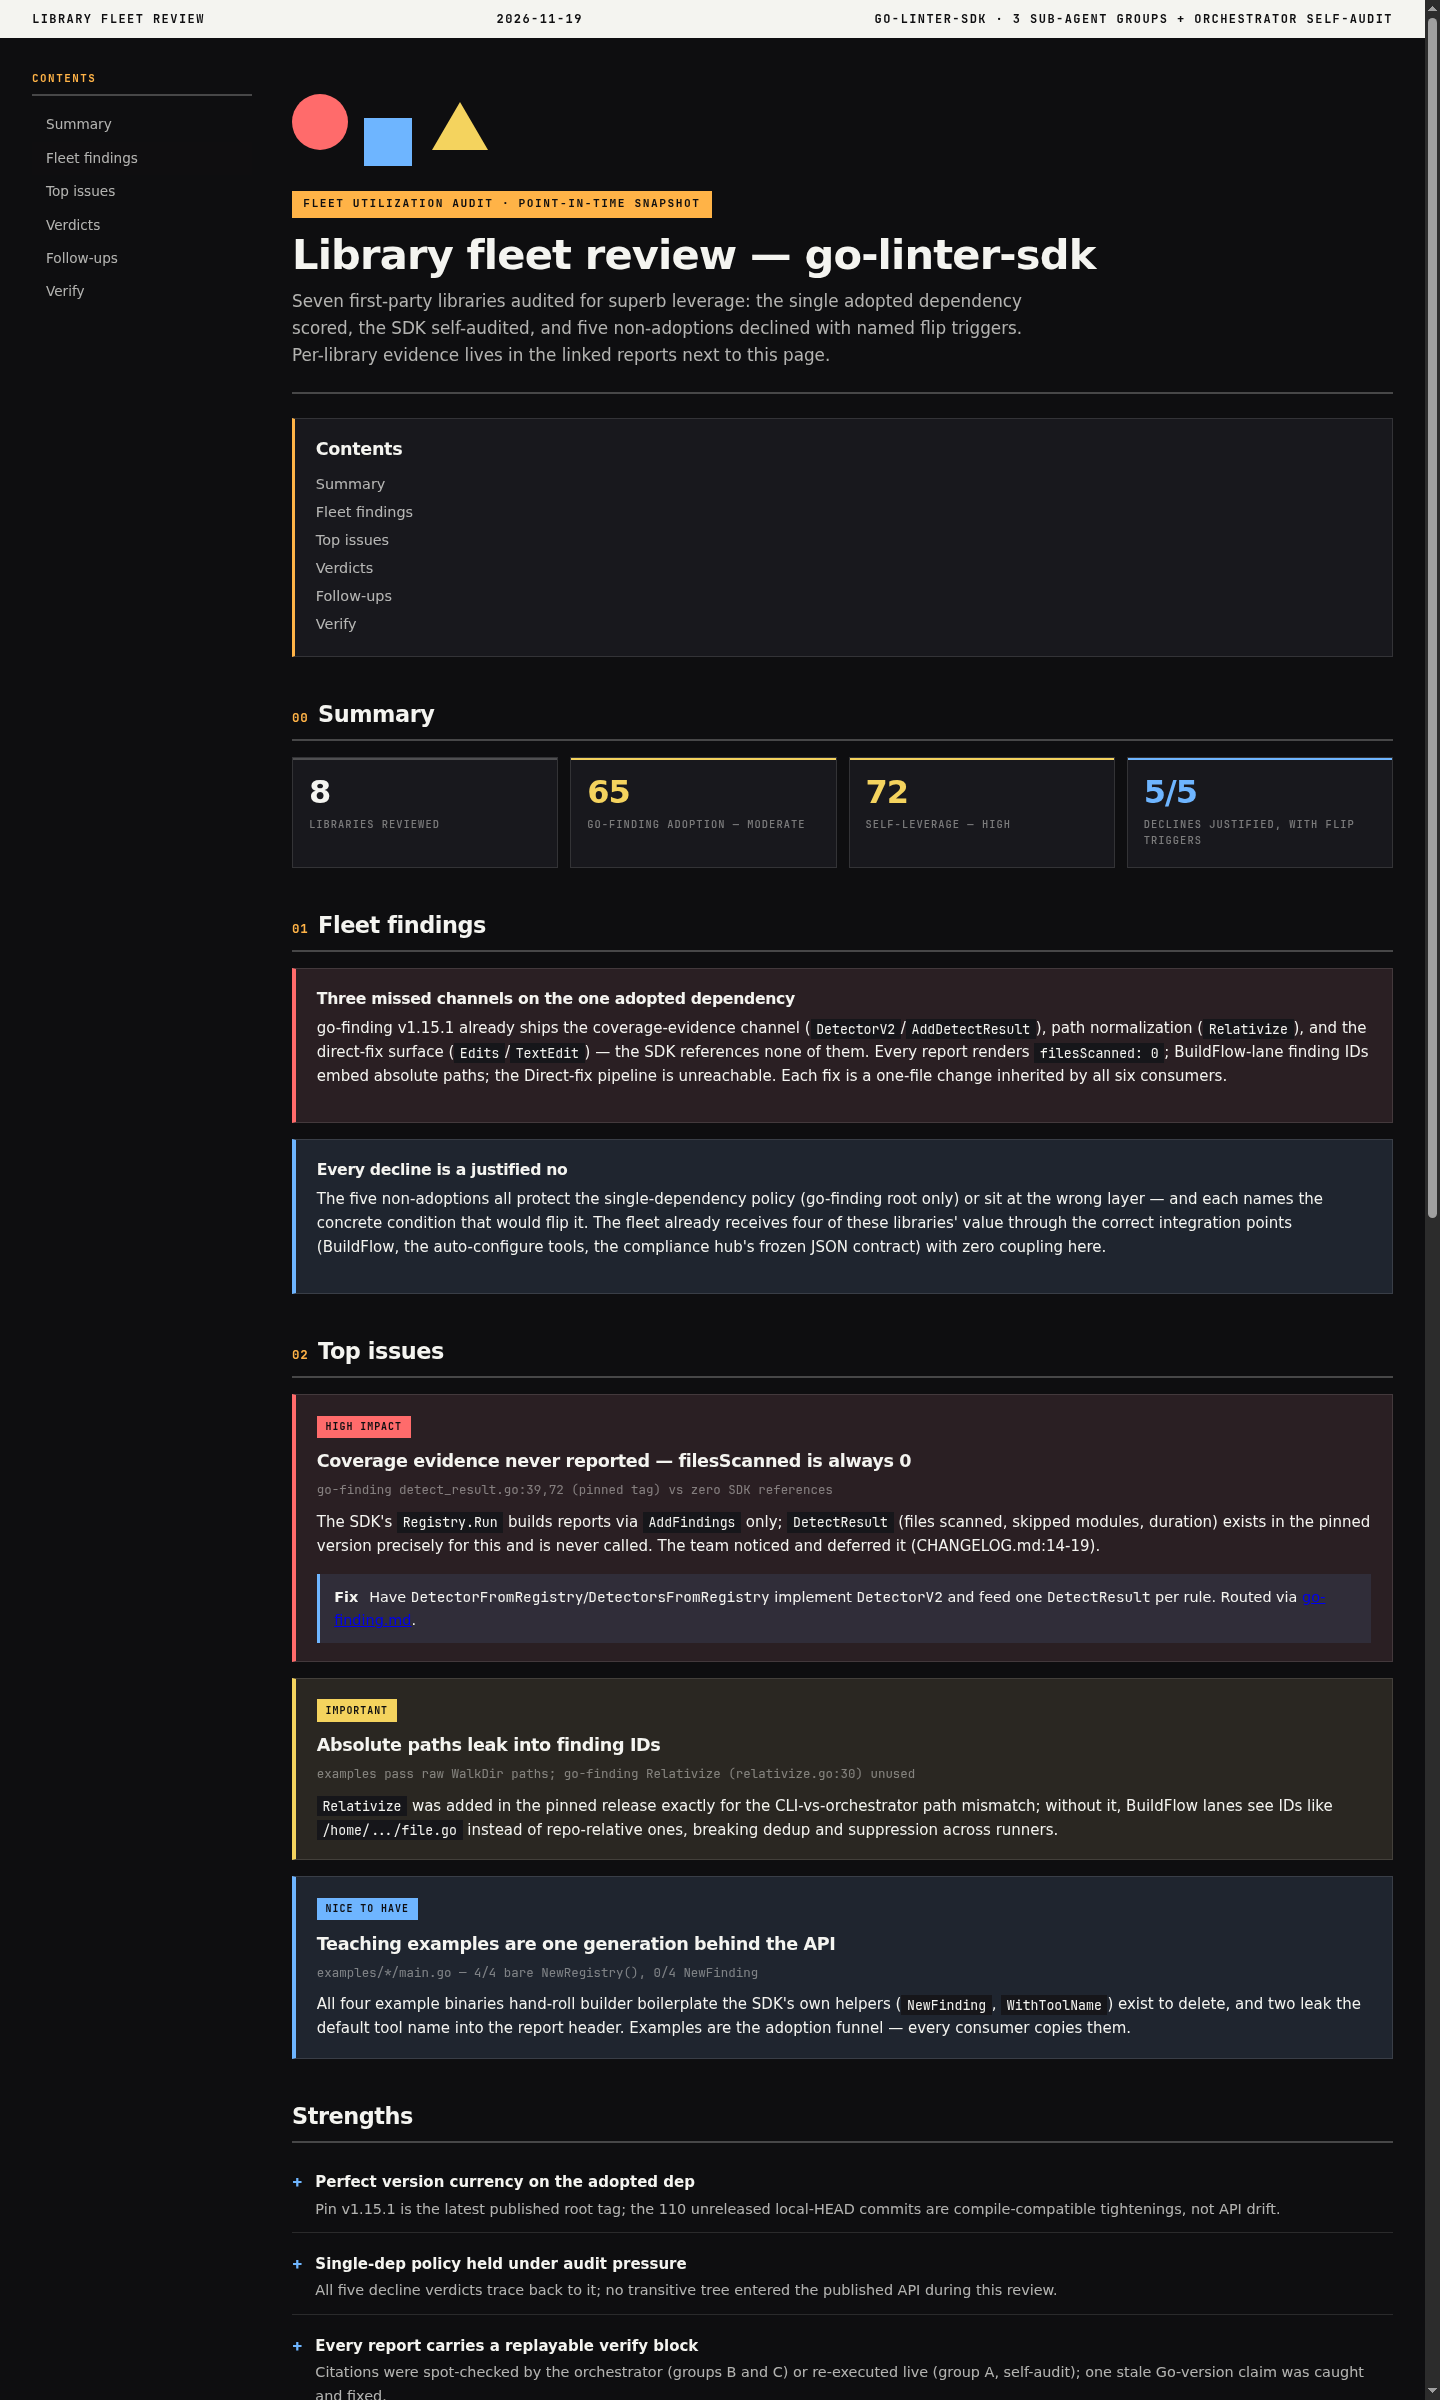
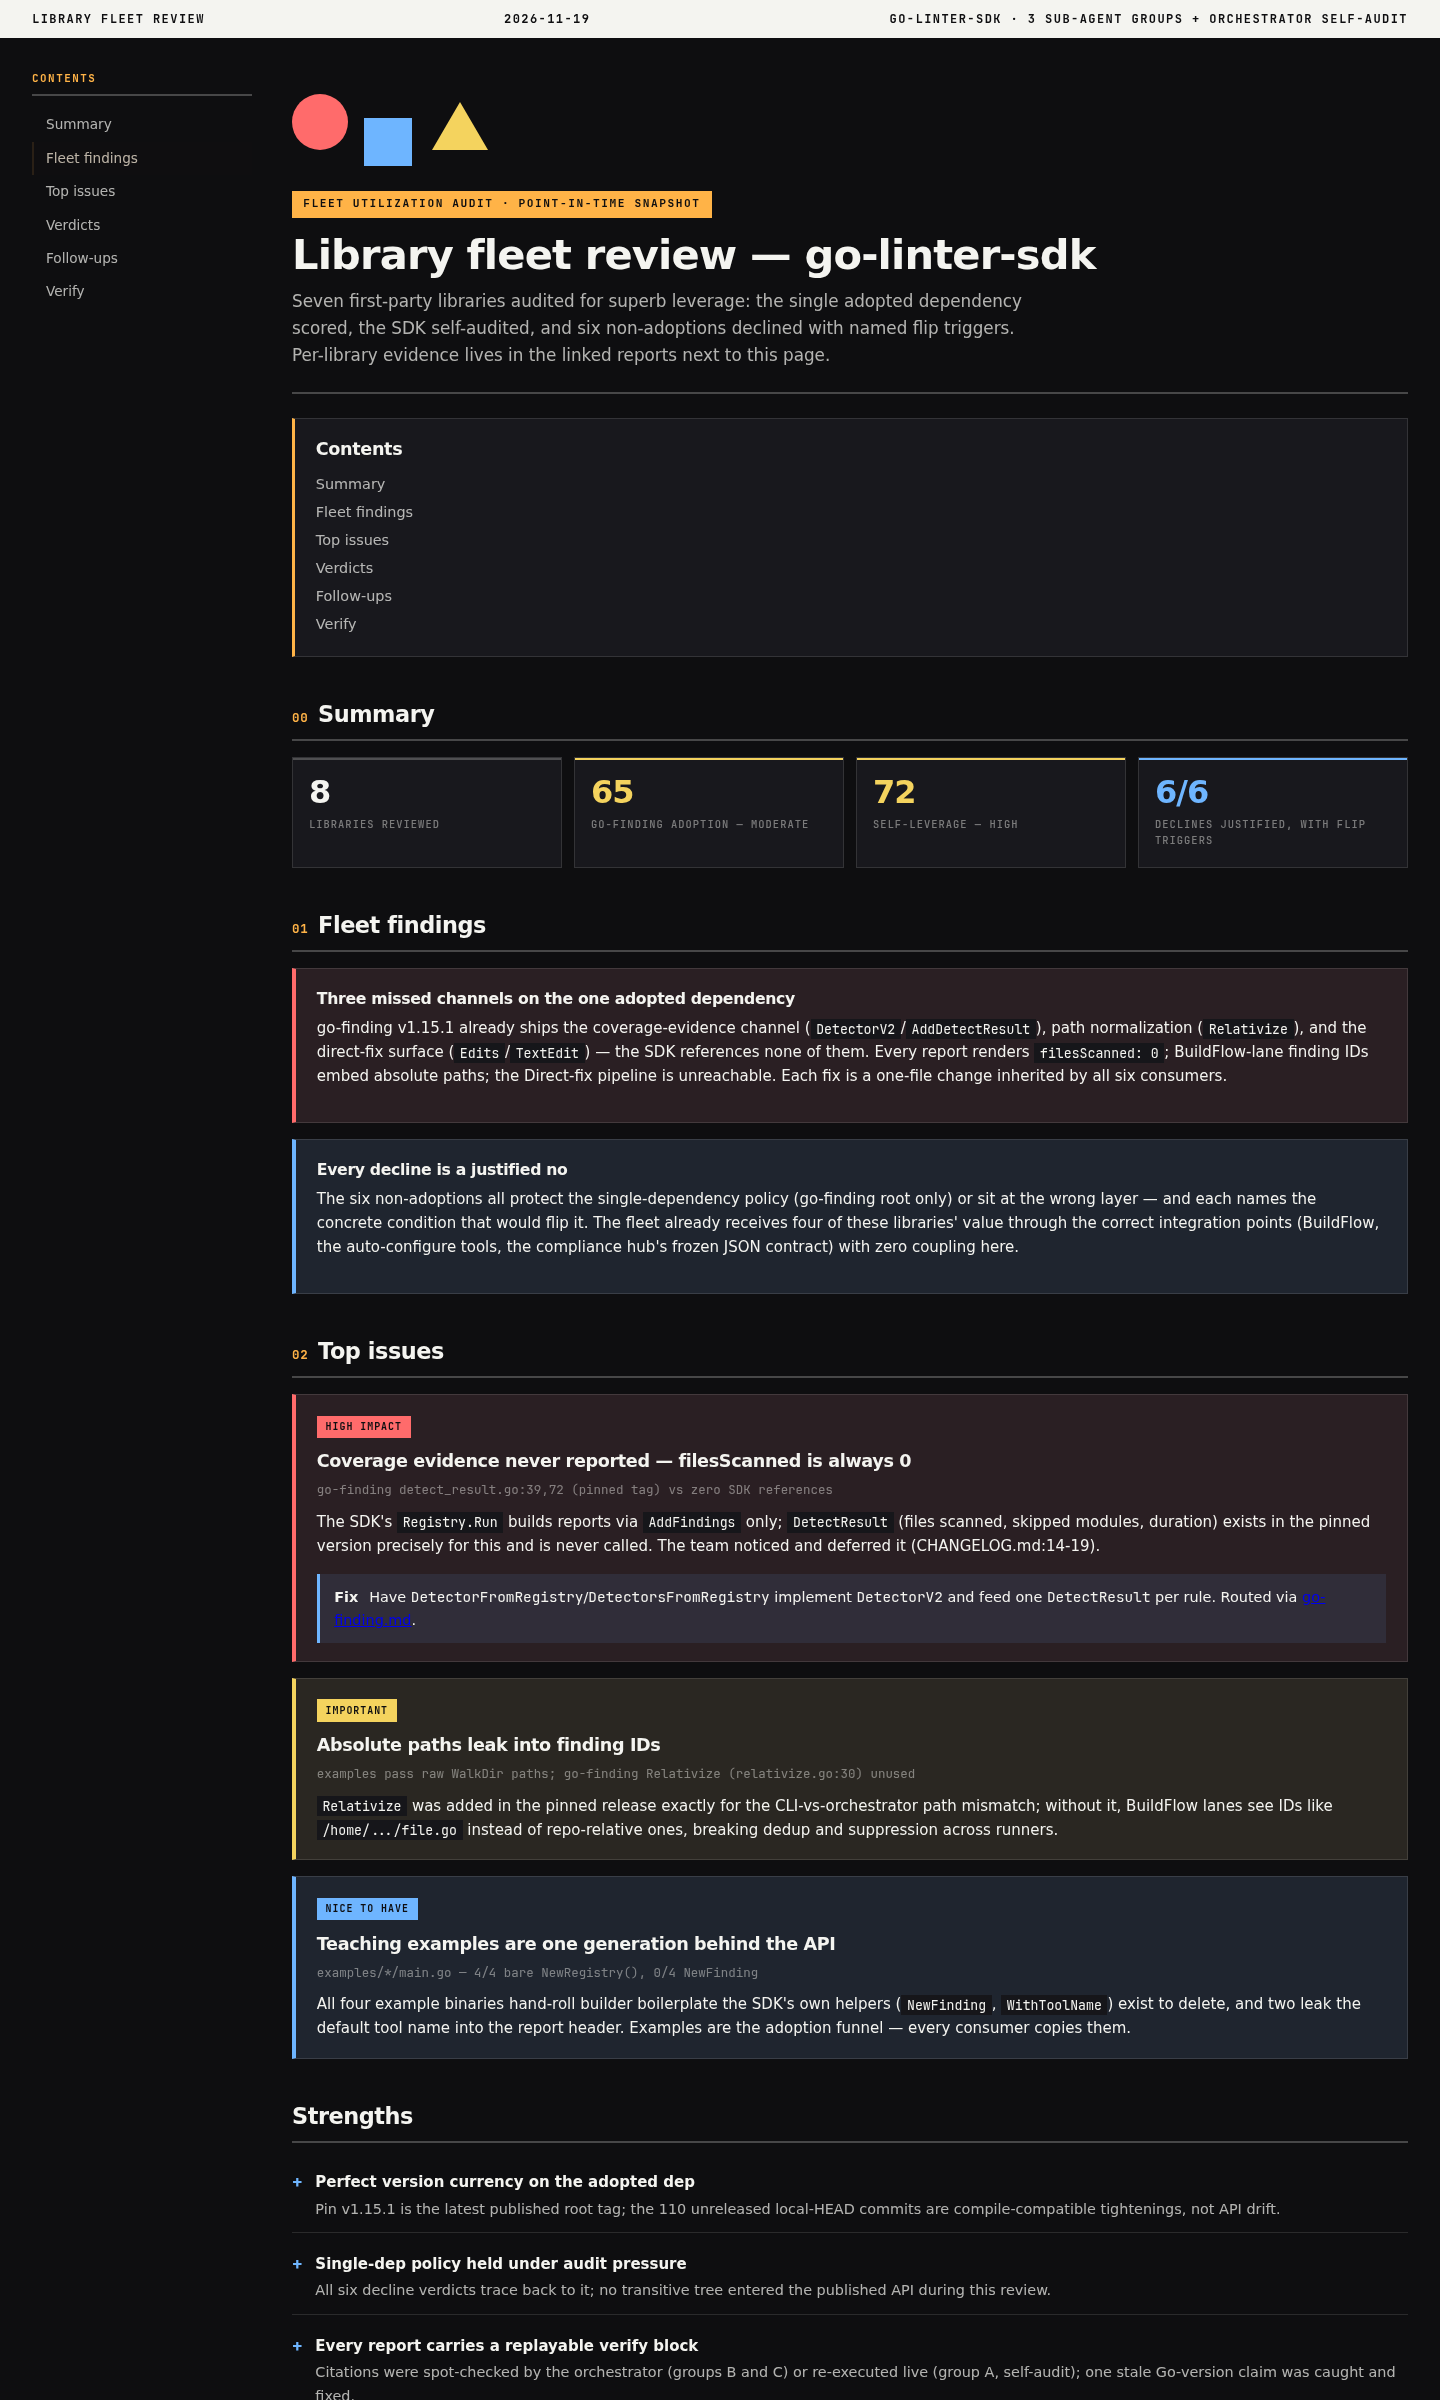
chore: auto-commit 6 changed file(s) (heuristic)
CHANGELOG.md
coverage_test.go
docs/review/libs/assets/index-render-full.png
docs/review/libs/assets/index-render-top.png
docs/review/libs/index.html
registry.go

Daemon: true

diff --git a/docs/review/libs/index.html b/docs/review/libs/index.html
@@ -859,7 +859,7 @@
           <h1>Library fleet review — go-linter-sdk</h1>
           <p class="hero-subtitle">
             Seven first-party libraries audited for superb leverage: the single
-            adopted dependency scored, the SDK self-audited, and five non-adoptions
+            adopted dependency scored, the SDK self-audited, and six non-adoptions
             declined with named flip triggers. Per-library evidence lives in the
             linked reports next to this page.
           </p>
@@ -894,7 +894,7 @@
             <div class="stat-label">Self-leverage — high</div>
           </div>
           <div class="stat-card stat-good">
-            <div class="stat-value">5/5</div>
+            <div class="stat-value">6/6</div>
             <div class="stat-label">Declines justified, with flip triggers</div>
           </div>
         </div>
@@ -919,7 +919,7 @@
         <div class="card card-solution">
           <h4>Every decline is a justified no</h4>
           <p>
-            The five non-adoptions all protect the single-dependency policy
+            The six non-adoptions all protect the single-dependency policy
             (go-finding root only) or sit at the wrong layer — and each names
             the concrete condition that would flip it. The fleet already
             receives four of these libraries' value through the correct
@@ -989,7 +989,7 @@
             <div class="check">+</div>
             <div class="text">
               <strong>Single-dep policy held under audit pressure</strong>
-              <span>All five decline verdicts trace back to it; no transitive tree entered the published API during this review.</span>
+              <span>All six decline verdicts trace back to it; no transitive tree entered the published API during this review.</span>
             </div>
           </div>
           <div class="strength">
@@ -1146,6 +1146,15 @@ for r in go-finding linter-autoconfigure-sdk go-policy-dsl go-dag-app go-complia
 grep -n '#2[0-7]' TODO_LIST.md                  # 8 routed rows (one BLOCKED)
 bash scripts/check-doc-versions.sh             # doc versions OK
 go test ./...                                  # suite green at review HEAD</code></pre>
+        <p>
+          Render re-verified 2026-11-19 (post 6/6 stat fix): headless chromium
+          152 screenshots at 1440&times;2400 and 1440&times;900
+          (<a href="assets/index-render-full.png">full</a>,
+          <a href="assets/index-render-top.png">top</a>), vision-checked on
+          those exact bytes with zai/glm-4.5v (reasoning off) &mdash; PASS, all
+          four stat cards read correctly (8 scored, 72 self-leverage, 6/6
+          declines justified, 85 avg adopted score).
+        </p>
 
         <footer class="footer">
           Generated 2026-11-19 &middot; All claims verified against source code

diff --git a/coverage_test.go b/coverage_test.go
@@ -356,3 +356,110 @@ func TestRuleMeta_Validate_CustomCategoryAccepted(t *testing.T) {
 		}
 	}
 }
+
+func TestDetectorFromRegistry_DetectV2_ErrorWrapsRuleError(t *testing.T) {
+	t.Parallel()
+
+	r := linter.NewRegistry()
+	r.Register(failingRule("boom"))
+
+	detector := linter.DetectorFromRegistry(r, "agg-lint")
+
+	v2, ok := detector.(finding.DetectorV2)
+	if !ok {
+		t.Fatal("expected DetectorV2")
+	}
+
+	_, err := v2.DetectV2(context.Background())
+	if err == nil {
+		t.Fatal("expected error from failing rule")
+	}
+
+	ruleErr, ok := errors.AsType[*linter.RuleError](err)
+	if !ok {
+		t.Fatalf("expected *RuleError, got %T: %v", err, err)
+	}
+
+	if ruleErr.RuleID != "boom" {
+		t.Errorf("expected rule ID boom, got %q", ruleErr.RuleID)
+	}
+
+	if !errors.Is(err, linter.ErrRuleFailed) {
+		t.Errorf("expected ErrRuleFailed sentinel, got: %v", err)
+	}
+
+	v1Findings, detectErr := detector.Detect(context.Background())
+	if detectErr == nil {
+		t.Fatal("expected Detect to propagate the same error")
+	}
+
+	if len(v1Findings) != 0 {
+		t.Errorf("expected no findings on error, got %d", len(v1Findings))
+	}
+}
+
+func TestDetectorsFromRegistry_DetectV2_ErrorWrapsRuleError(t *testing.T) {
+	t.Parallel()
+
+	r := linter.NewRegistry()
+	r.Register(failingRule("boom-per-rule"))
+
+	detectors := linter.DetectorsFromRegistry(r)
+	if len(detectors) != 1 {
+		t.Fatalf("expected 1 detector, got %d", len(detectors))
+	}
+
+	v2, ok := detectors[0].(finding.DetectorV2)
+	if !ok {
+		t.Fatal("expected DetectorV2")
+	}
+
+	_, err := v2.DetectV2(context.Background())
+	if err == nil {
+		t.Fatal("expected error from failing rule")
+	}
+
+	ruleErr, ok := errors.AsType[*linter.RuleError](err)
+	if !ok {
+		t.Fatalf("expected *RuleError, got %T: %v", err, err)
+	}
+
+	if ruleErr.RuleID != "boom-per-rule" {
+		t.Errorf("expected rule ID boom-per-rule, got %q", ruleErr.RuleID)
+	}
+}
+
+func TestRegistry_Run_ContinueOnError_KeepsCoverageFromPassingRules(t *testing.T) {
+	t.Parallel()
+
+	f := makeRule("cov-ok", nil).NewFinding("kept issue", finding.Pos(finding.FilePath("kept.go"), 1, 1)).MustBuild()
+
+	r := linter.NewRegistry()
+	r.Register(failingRule("boom"))
+	r.Register(newCoverageRule("cov-ok", 7, []string{"mod-x"}, []finding.Finding{f}))
+
+	report, err := r.Run(context.Background(), ".", linter.ContinueOnError())
+	if err == nil {
+		t.Fatal("expected joined error from the failing rule")
+	}
+
+	if !errors.Is(err, linter.ErrRuleFailed) {
+		t.Errorf("expected ErrRuleFailed in joined error, got: %v", err)
+	}
+
+	if report == nil {
+		t.Fatal("expected partial report despite the failure")
+	}
+
+	if report.Summary.FilesScanned != 7 {
+		t.Errorf("expected coverage from the passing rule (7), got %d", report.Summary.FilesScanned)
+	}
+
+	if !slices.Equal(report.Summary.SkippedModules, []string{"mod-x"}) {
+		t.Errorf("expected SkippedModules [mod-x], got %v", report.Summary.SkippedModules)
+	}
+
+	if report.Len() != 1 {
+		t.Errorf("expected the passing rule's finding to survive, got %d findings", report.Len())
+	}
+}

diff --git a/registry.go b/registry.go
@@ -423,10 +423,6 @@ func ExitCodeFromReport(report *finding.Report) int {
 // ExitCodeFromFindings is [ExitCodeFromReport] for callers that hold a plain
 // finding slice and never build a Report: 0 when findings is nil or empty,
 // 1 otherwise. Same binary convention, no aggregation step.
-
-// ExitCodeFromFindings is [ExitCodeFromReport] for callers that hold a plain
-// finding slice and never build a Report: 0 when findings is nil or empty,
-// 1 otherwise. Same binary convention, no aggregation step.
 func ExitCodeFromFindings(findings []finding.Finding) int {
 	if len(findings) == 0 {
 		return 0

diff --git a/CHANGELOG.md b/CHANGELOG.md
@@ -7,6 +7,46 @@ and this project adheres to [Semantic Versioning](https://semver.org/spec/v2.0.0
 
 ## [Unreleased]
 
+The post-release tier on master: composition and filtering APIs that make
+`--enable`/`--disable` set logic, immutable rule collections, and finding
+filters first-class, plus an O(1) registry index. No existing signature
+changed.
+
+### Added
+
+- **`Filter` type** (`filter.go`): severity/category finding filter with
+  zero-value-keeps-all semantics and copy semantics on `Apply` (input never
+  mutated). Compose with `RuleSet.Check` output or any `[]finding.Finding`.
+- **`RuleSet` type** (`ruleset.go`): immutable, order-preserving rule
+  collection with O(1) `Get`/`Has` ID lookup, `ToRegistry` for registry
+  interop, and fail-fast `Check`.
+- **`NewRegistryFromRules(rules, opts...)`**: bulk registry constructor with
+  the same duplicate/identity validation as per-rule `Register`.
+- **`ExitCodeFromFindings(findings)`**: binary exit-code convention for a raw
+  `[]finding.Finding`, no `*finding.Report` needed.
+- **`AllCategories()`**: fresh copy of the eleven recommended categories.
+- **O(1) registry index**: `Registry.Get`/`Has` now use a `byID` map instead
+  of a linear scan; `Deregister` stays O(n) by design to preserve
+  registration order. Race-gated by `TestRegistry_ConcurrentIndexMix`.
+  Benchmarks: `Get` ~15 ns/op flat (15.1/15.0/15.3 ns at 100/500/1000 rules,
+  0 allocs); `BenchmarkRegistry_Run_Coverage` ~709 ns/op (10 coverage rules,
+  50 files each).
+
+### Changed
+
+- **`examples/cli-triage` exit contract**: tool failure now exits **3**,
+  distinct from triage (2) and must-fix (1) — CI can tell "findings below
+  threshold" from "the tool crashed". Contract documented in the example's
+  godoc and asserted by integration tests.
+
+### Documentation
+
+- ADR 0002: fix representation — NO-GO on SDK-level fix application, GO on
+  declaration teaching (`WithEdits` in examples).
+- ADR 0003: `RuleFunc` generics evaluation — DECLINED, sketch
+  compile-checked.
+- Fleet-audit template + sweep baseline under `docs/review/libs/`.
+
 ## [0.5.0] - 2026-11-19
 
 The report-truthfulness release. The SDK's execution paths now feed
